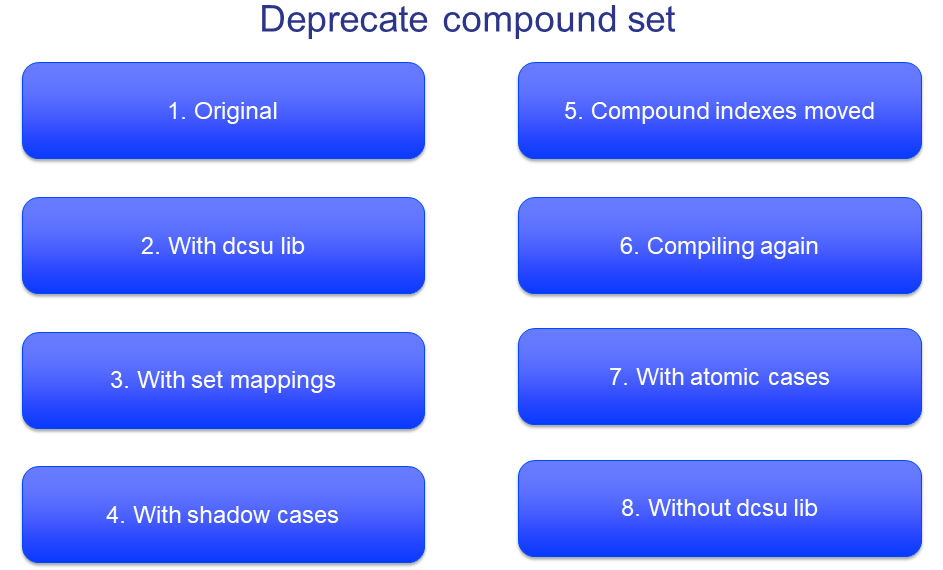
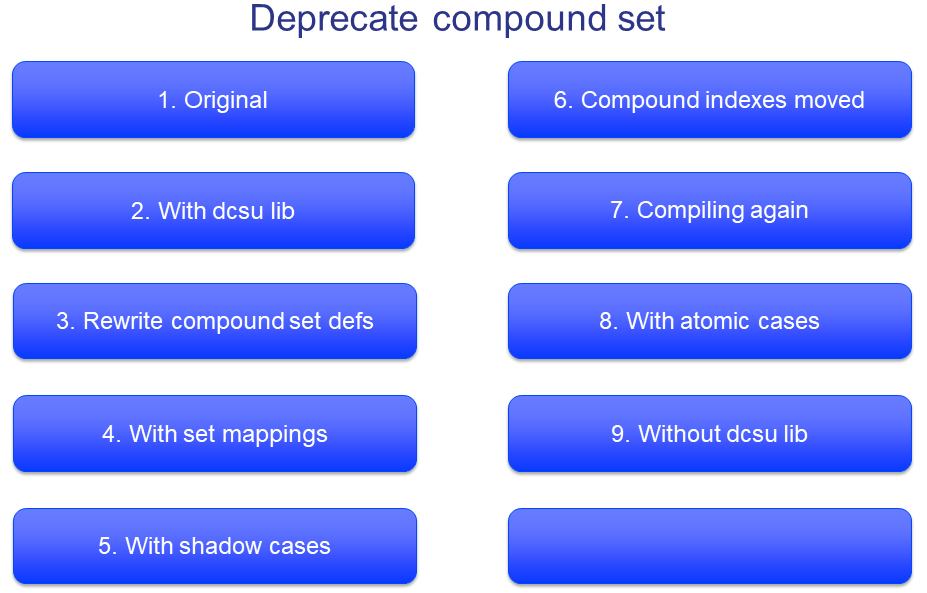
Adapted document based on completed conversion of SFMM.

diff --git a/HowToHandleTheDeprecationOfCompoundSets.rst b/HowToHandleTheDeprecationOfCompoundSets.rst
@@ -34,15 +34,13 @@ This document attempts to answer these questions.
 What are compound sets in AIMMS?
 --------------------------------
 
-Consider several one dimensional sets: :math:`S_1, S_2, ..., S_n`. As you know, a relation :math:`R` is a subset of a Cartesian product: :math:`S_1 \times S_2 \times ... \times S_n` with :math:`n \geq 2`.
+Consider several one dimensional sets: :math:`S_1, S_2, ..., S_n`. As you may know, a relation :math:`R` is a subset of a Cartesian product: :math:`S_1 \times S_2 \times ... \times S_n` with :math:`n \geq 2`.
 
 In AIMMS, a relation :math:`R` is **transformed** to a compound set, say :math:`C`, when its attribute form contains the declaration of an index, say :math:`c` or an element parameter, say :math:`e`. As such a compound set is a one-dimensional set, and like other one-dimensional sets it can have an ordering.
 
 Once a compound set is formed, it allows for the selection of components in tuples via tags. Let's assume :math:`C` is declared with the tags :math:`(T_1, T_2, ..., T_n)`, then selecting component :math:`i` of tuple :math:`c` is obtained by the notation :math:`c.T_i`.
 
-.. seealso::
-	
-	https://download.aimms.com/aimms/download/manuals/AIMMS3LR_SetDeclaration.pdf
+
 
 .. _Section-Why:
 
@@ -78,7 +76,7 @@ How to plan for the adaptation of your model?
 
 **The deprecation of compound sets will only be definite after January 1, 2020**, giving AIMMS modellers more than one and a half year between the announcement and the definite deprecation. With the nearing of this deadline, the urgency to do something about it also increases. That is why the following timeline is provided:
 
-#. The first release of AIMMS IDE after July 1, 2018, does not provide the attributes 'index' or 'parameter' in the attribute form of relations. This step prevents the creation of new compound sets.
+#. The first release of AIMMS IDE after July 1, 2018, being AIMMS 4.56, does not provide the attributes 'index' or 'parameter' in the attribute form of relations. This step prevents the creation of new compound sets.
 
 #. The first release of AIMMS IDE after January 1, 2019, (6 months later) warns the model builder against existing compound sets.  
 
@@ -160,6 +158,8 @@ The conversion procedure consists of the following conversion steps:
 
 #. Start with adding the library ``DeprecateCompoundSetUtilities`` to your application.
 
+#. Check all definitions of compound sets; rewrite those definitions that cannot be used to define a relation as well.
+
 #. Create the Set Mapping declarations and copy these declarations to your main model.
 
 #. For each case: create a new case without compound data but with shadow data for the compound data identifiers. We call these cases, the shadow cases.
@@ -195,10 +195,50 @@ This example app also contains the utility library ``DeprecateCompoundSetUtiliti
 Please copy the library from that example and use it in your application.
 
 
+Conversion step 4: Rewrite selected compound set definitions
+++++++++++++++++++++++++++++++++++++++++++++++++++++++++++++++
+
+In the conversion steps after this one, we still want to use the data of compound sets. 
+This data will be stored primarily in a relation.  This is why we want the definition, if any, of a compound set to be suited for a relation as well. 
+
+Consider the following example:
+
+    .. code-block:: none
+
+        Set C {
+            SubsetOf: (S, T, U);
+            Tags: (TS, TT, TU);
+            Index: h ;
+            Definition: {
+                { (i,j,k) | pAllowedElementsC(i,j,k) = 1 }
+            }
+        }
+        Set D {
+            SubsetOf: C;
+            Index: g ;
+            definition: {
+                { h | pAllowedElementsD(h.TS, h.TT, h.TU) = 1 }
+            }
+        }
+ 
+In the above example, the definition of C is a definition that can also be used for a relation, say :math:`R`, that is a subset of the cartesian product :math:`S \times T \times U`. In contrast, the definition of D cannot be used directly as the definition for a relation; we need to rewrite it first. For instance as follows:
+
+    .. code-block:: none
+
+        Set D {
+            SubsetOf: C;
+            Index: g ;
+            definition: {
+                { (i,j,k) | pAllowedElementsC(i,j,k) = 1 and pAllowedElementsD(i, j, k) = 1 }
+            }
+        }
+ 
+As you can see, the definition of ``D`` is now based on tuples instead of individual elements.
+
 
 .. _Section_conversion_Create_Set_Mapping:
 
-Conversion step 3: Create Set Mapping
+Conversion step 4: Create Set Mapping
 ++++++++++++++++++++++++++++++++++++++++
 
 In this conversion step a set mapping is created for each compound set in your model. This conversion step consists of the following sub steps:
@@ -224,7 +264,7 @@ The model explorer should now look something like this:
 
 .. _Section_Conversion_Copy_Input_Cases:
 
-Conversion step 4: Copy the input cases
+Conversion step 5: Copy the input cases
 ++++++++++++++++++++++++++++++++++++++++
 
 Shadow cases are cases whereby the compound data is replaced by atomic shadow data.
@@ -237,7 +277,7 @@ You can either choose to do all cases in one go, or do case by case. Either way,
 
 .. _Section_Conversion_Adapt_Model:
 
-Conversion step 5: Adapt the model such that compound sets are no longer needed.
+Conversion step 6: Adapt the model such that compound sets are no longer needed.
 +++++++++++++++++++++++++++++++++++++++++++++++++++++++++++++++++++++++++++++++++++
 
 In this section, we will discuss several examples of how compound sets are used in your model and provide alternatives using the set mappings created in :ref:`Section_conversion_Create_Set_Mapping`.
@@ -318,7 +358,7 @@ You can replace this definition by:
 .. _Section_Conversion_Move_Indexes:
 
 
-Conversion step 6: Move the compound indexes to the corresponding set mapping sets.
+Conversion step 7: Move the compound indexes to the corresponding set mapping sets.
 +++++++++++++++++++++++++++++++++++++++++++++++++++++++++++++++++++++++++++++++++++++++
 
 This step is essential such that screen definitions can be retained unaltered. 
@@ -329,7 +369,7 @@ This step may be combined with the previous step; in so doing, the AIMMS compile
 
 .. _Section_Conversion_Backward_Copy:
 
-Conversion step 7: For each shadow case, copy that shadow case back to the original case.
+Conversion step 8: For each shadow case, copy that shadow case back to the original case.
 +++++++++++++++++++++++++++++++++++++++++++++++++++++++++++++++++++++++++++++++++++++++++++++
 
 This section is similar to :ref:`Section_Conversion_Copy_Input_Cases`, except the area of the screen to use is ``Backward - creating cases with original identifiers without compound data``.
@@ -337,7 +377,7 @@ This section is similar to :ref:`Section_Conversion_Copy_Input_Cases`, except th
 
 .. _Section_Conversion_Final:
 
-Conversion step 8: Remove the library Deprecate Compound Set Utilities.
+Conversion step 9: Remove the library Deprecate Compound Set Utilities.
 +++++++++++++++++++++++++++++++++++++++++++++++++++++++++++++++++++++++++++++++++++++++
 
 As your project no longer depends on compound sets, this library is no longer needed and can be removed.
